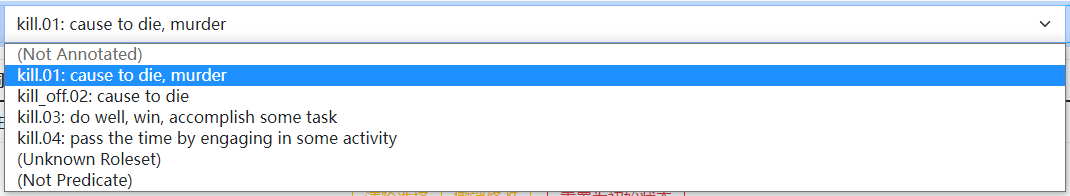
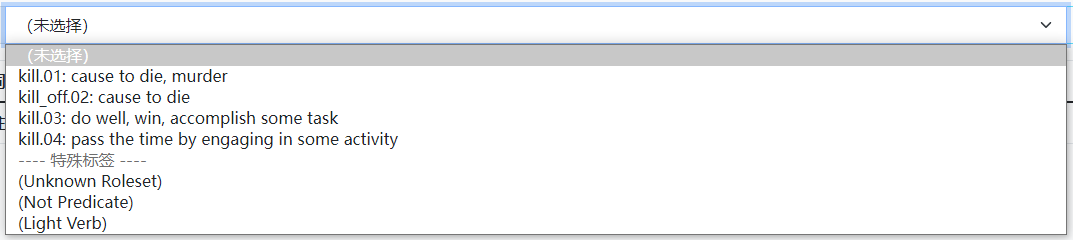
change light verb annotation rule add more comments on "not predicate" update website screenshot

Changed region(s): [[0.0, 0.0, 1.0, 1.0]]

diff --git a/docs/process.md b/docs/process.md
@@ -15,9 +15,9 @@
 若自动识别的谓词满足下述任一条件，则认为识别错误，仅将角色集选为 Not Predicate，无需进行后续标注：
 
 - 谓词是定语形容词或副词；
-- 谓词是不含动作性的名词，不指代任何事件或状态，如“He has drawn a picture.”中的 picture；
+- 谓词是不含动作性的名词，不指代任何事件或状态，如“He has drawn a picture of her.”中的 picture（注意与“He has taken a picture of her.”比较，这里的 picture 是伸展动词 take picture 的一部分，按下述轻动词标注规则标注）；
 - 谓词是某个介词或连词结构的一部分，如 according to 中的 according；
-- 句中不存在与该谓词的任意角色集所匹配的参数，如“The death penalty prevents crimes.”中的 crimes；
+- 句中不存在与该谓词的任意角色集所匹配的参数，如“The death penalty prevents crimes.”中的 crimes（但如果存在修饰参数，即使句中没有可用的编号参数，也请保留正确的角色集）；
 - 其他标注者判定为非谓词的情形。
 
 ## 角色集选择
@@ -26,17 +26,17 @@
 
 ### 轻动词
 
-若谓词是动词且符合下列描述，则认为该谓词是轻动词，角色集选择轻动词（“.LV”），无需进行后续标注：
+若谓词是动词且符合下列描述，则认为该谓词是轻动词，角色集选择 Light Verb，无需进行后续标注（但是对应的名词作谓词时请将动词标注为 ARGM-LVB）：
 
-- 谓词与一个指代事件（eventive）或状态（stative）的名词绑定成为短语，而谓词不承担主要实义，如 take a bath 中的 take；
-- 【谓词 + 名词】的短语可以被【仅与名词词义相关的动词】所取代，如 make a mistake 与 mistaken；
-- 谓词的主语和名词存在主从关系，而谓词在其间起到联系作用，如“I made/got a call.”中 I 分别是 call 的主语和宾语。
+- 谓词与一个指代**事件（event）或状态（state）** 的名词绑定成为短语，而谓词**不承担主要实义**，如 take a bath 中的 take；
+- 【谓词 + 名词】的短语可以被**仅与名词词义相关的动词**所取代，如 make a mistake 与 mistaken；
+- 谓词的主语和名词存在**主从关系**，而谓词在其间起到**联系作用**，如“I made/got a call.”中 I 分别是 call 的主语和宾语。
+
+实际标注时，请首先查找谓词是否存在不作为轻动词的角色集能够匹配句中的用法，特别地可以比较一下角色集详情提供的标注示例。如果发现了相关的非轻动词角色集，请优先选择该角色集并据此标注参数；如果没有相关角色集，或者只有明确表示作轻动词使用的角色集时，才考虑按照上述标准选择 Light Verb，但是 ***不要选择对应的轻动词角色集*** （它们仅用于占位和额外说明）。
 
 ### 角色集缺失
 
 若不存在符合句意的角色集，请选择角色集 Unknown Roleset，并将谓词的动因（agent）标注为 ARG-0, 受动者（patient）标注为 ARG-1，同时标注与谓词有关的修饰参数。
-
-*注：如果该谓词是轻动词用法，但没有相应的 .LV 角色集，优先查找其他角色集是否有匹配的用法，如果没有，再选择 Unknown Roleset。*
 
 ## 参数标注
 

diff --git a/docs/website.md b/docs/website.md
@@ -28,7 +28,7 @@
 
 ### 角色集标注
 
-确认谓词无误后，可以通过角色集下拉框选择合适的角色集，如下图所示。请务必选择合适的角色集或 Unknown Roleset、Not Predicate 两个特殊选项，不要保留默认的 Not Annotated 选项。
+确认谓词无误后，可以通过角色集下拉框选择合适的角色集，如下图所示。请务必选择合适的角色集或特殊标签，不要保留默认选项。
 
 <img src="../img/选择角色集.png" alt="选择角色集" width="100%"/>
 
@@ -64,7 +64,7 @@
 
 左侧的工具栏可供任务跳转，其中单击左／右箭头可以切换至上／下一个任务；单击“选择任务”按钮会弹出任务列表，展示当前任务组下的所有任务，可以单击跳转至任意任务，。切换任务时，网页将自动保存当前任务的标注结果。
 
-任务列表的每个条目显示了任务的句子、谓词和标注状态，如下图所示。其中，灰色表示任务的角色集选项为 Not Annotated，即尚未标注，如图中第七个任务开始的所有任务；黄色表示任务的角色集选项为 Unknown Roleset，即不能确定标注，如图中第四到第六个任务；绿色表示任务的角色集选项为某个谓词角色集或 Not Predicate，即已完成角色集标注（但不代表参数标注也已完成），如图中前三个任务。
+任务列表的每个条目显示了任务的句子、谓词和标注状态，如下图所示。其中，灰色表示任务尚未标注角色集，即任务尚未开始标注，如图中第七个任务开始的所有任务；黄色表示任务的角色集选项为 Unknown Roleset，即任务不能确定准确标注，如图中第四到第六个任务；绿色表示任务的角色集选项为某个谓词角色集或 Not Predicate，即任务已完成角色集标注（但不代表参数标注也已完成），如图中前三个任务。
 
 <img src="../img/任务选择.png" alt="任务选择" width="50%"/>
 
